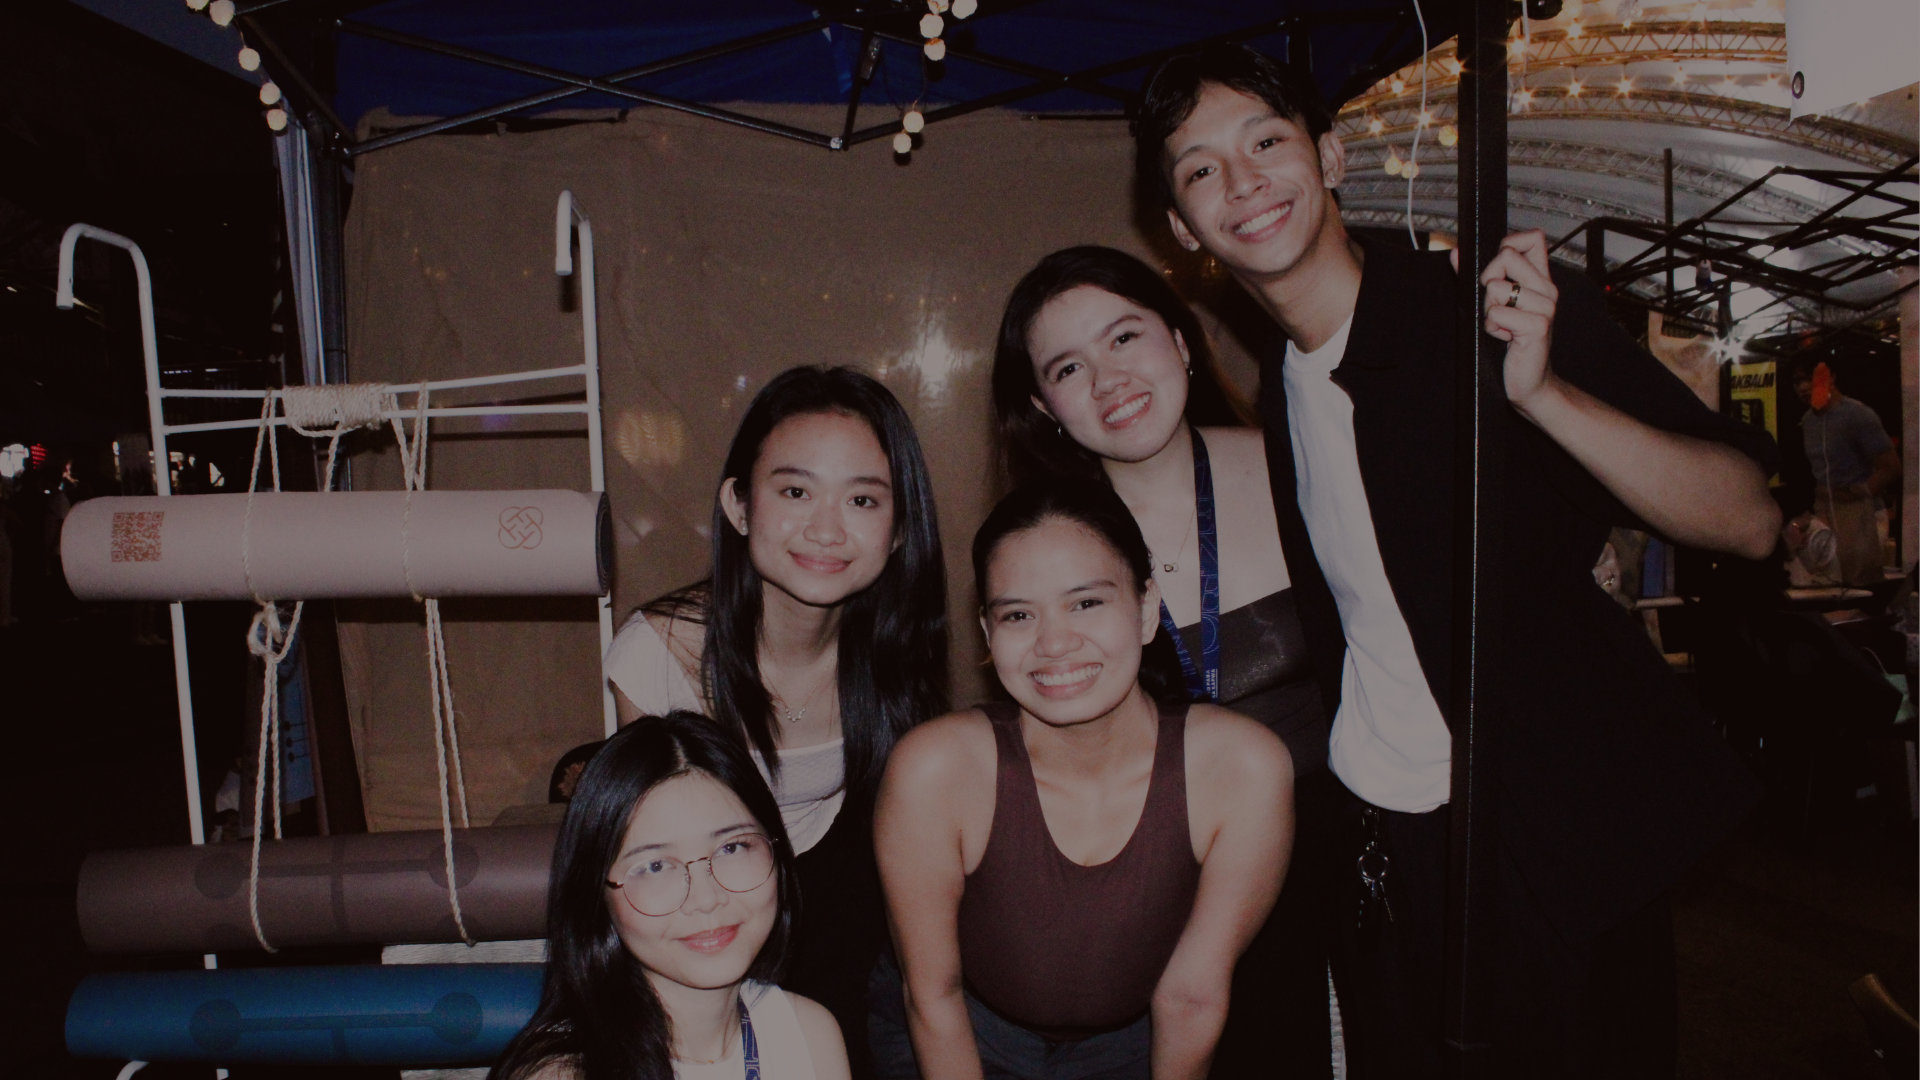
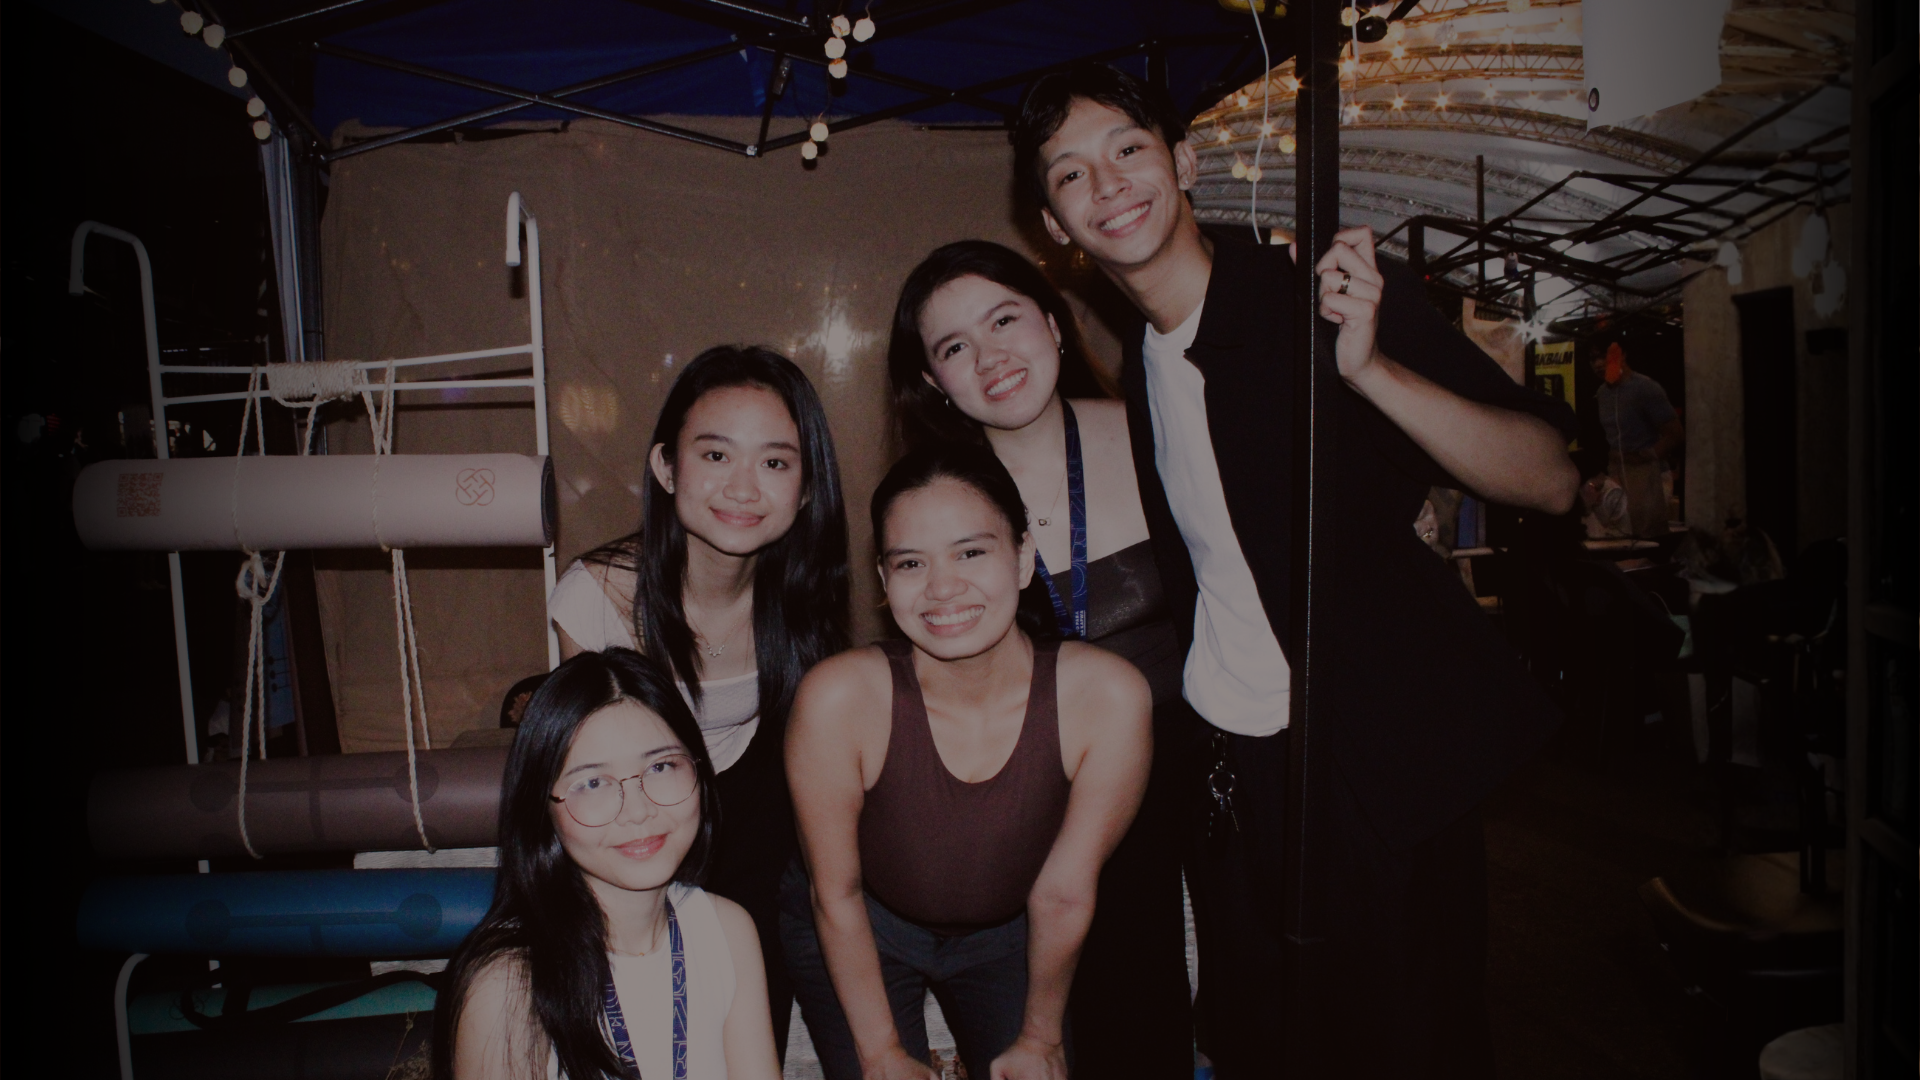
Added hero content in our-story

diff --git a/style.css b/style.css
@@ -270,7 +270,7 @@ header.scrolled .fa-bag-shopping {
     align-items: center;       
     padding-top: 2rem;  
     padding-bottom: 2rem;
-    padding-left: 2rem;    
+    padding-left: 8rem;    
 }
 
 .forma-facts {
@@ -281,7 +281,7 @@ header.scrolled .fa-bag-shopping {
 }
 
 .forma-facts img {
-    width: 100%;
+    width: 95%;
     height: auto;
     object-fit: cover;
     transition: opacity 0.5s ease, transform 0.5s ease;
@@ -804,6 +804,30 @@ header.scrolled .fa-bag-shopping {
     padding: 4rem 0rem 10rem;
 }
 
+.our-story-overlay {
+    position: absolute;
+    top: 50%;
+    left: 65%;
+    transform: translate(-50%, -50%);
+    z-index: 2;                           
+    text-align: right;
+    width: 90%;
+    max-width: 1200px;
+    pointer-events: none;    
+}
+
+.sub-header {
+    font-family: 'Poppins';
+    font-weight: 600;
+    margin-top: 1.1rem;
+    margin-right: 4.5rem;
+    color: white;
+}
+
+.our-story-overlay .home-quote {
+    margin-bottom: -15px; 
+    line-height: 0.8;   
+}
 
 /* Mobile Responsiveness */
 @media (max-width: 868px) {

diff --git a/our-story.html b/our-story.html
@@ -41,6 +41,11 @@
             <img src="images/our-story.png">
         </div>
 
+        <div class="our-story-overlay">
+            <h1 class="home-quote">From Thesis <br> to <i>Startup</i></h1>
+            <h4 class="sub-header">FORMA — GUIDED YOGA MATS</h4>
+        </div>
+
         <div class="our-story-content">
             <h1 class="gets-you">The Mat that gets you</h1>
         </div>

diff --git a/index.html b/index.html
@@ -11,8 +11,8 @@
     <link rel="stylesheet" href="https://cdnjs.cloudflare.com/ajax/libs/font-awesome/6.4.0/css/all.min.css">
     <link rel="icon" type="image/png" sizes="180x180" href="images/logo-tab.png">
 </head>
-<body>
 
+<body>
 <header>
     <nav class="navbar">
         <ul class="navbar-tabs">
